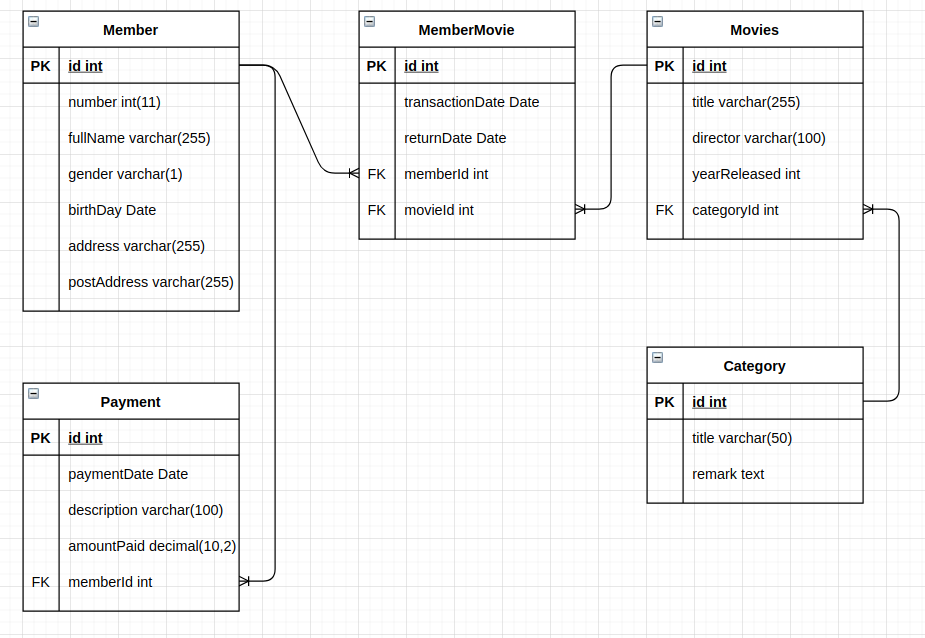
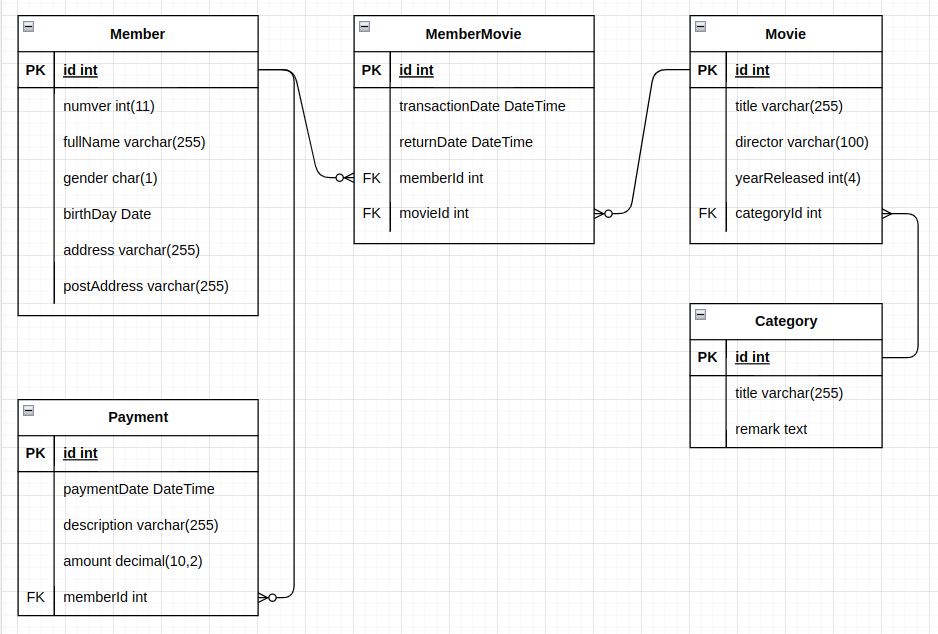
диаграмма

diff --git a/articles/5_1_1_1_erd_workbench.md b/articles/5_1_1_1_erd_workbench.md
@@ -86,8 +86,6 @@ MyFlix — это юридическое лицо, которое сдает в 
 
     ![](../img/erd_005.png)
 
-    У **gender** тип должен быть `char(1)` 
-
     >При наведении курсора мышки на объект, показывается информация о типе объекта
     >
     >![](../img/erd_006.png)
@@ -96,12 +94,10 @@ MyFlix — это юридическое лицо, которое сдает в 
 
 ![](../img/erd_007.png)
 
-Тут есть ошибка - все сущности нужно называть единообразно, а у нас название таблицы **Movies** во множественном числе
-
 Обратите внимание:
 
 * Таблица связей названа по именам связываемых сущностей
-* В названиях сущностей и атрибутов используем CamelCase и единственное число
+* В названиях сущностей и атрибутов используем **CamelCase** и единственное число
 * сразу создаем атрибуты для связей: *paymentId*, *memberId*, *movieId*, *categoryId*. Для определения направления связи проговариваем про себя "у одного участника может быть несколько покупок" и, соответственно создаём аттрибут *paymentId* в сущности, которой **много**
 
 ### Создадим связи
@@ -110,7 +106,7 @@ MyFlix — это юридическое лицо, которое сдает в 
 
     ![](../img/erd_008.png)
 
-1. Соединяем нужные аттрибуты сущностей соответствующими сторонами связи (проговариваем для себя: "в одной категории может быть много фильмов")
+1. Соединяем нужные аттрибуты сущностей соответствующими сторонами связи (проговариваем для себя: "в одной категории может быть много фильмов"), учитывая модальность связи.
 
     ![](../img/erd_009.png)
 
@@ -118,4 +114,6 @@ MyFlix — это юридическое лицо, которое сдает в 
 
 ![](../img/erd_010.png)
 
->Пример выполнен без учёта модальности. Для отношений "участник - фильм" и "участник - платеж" нужно использовать вариант с необязательной связью
+**Задание**
+
+Разработать ER-диаграмму для своей предметной области
